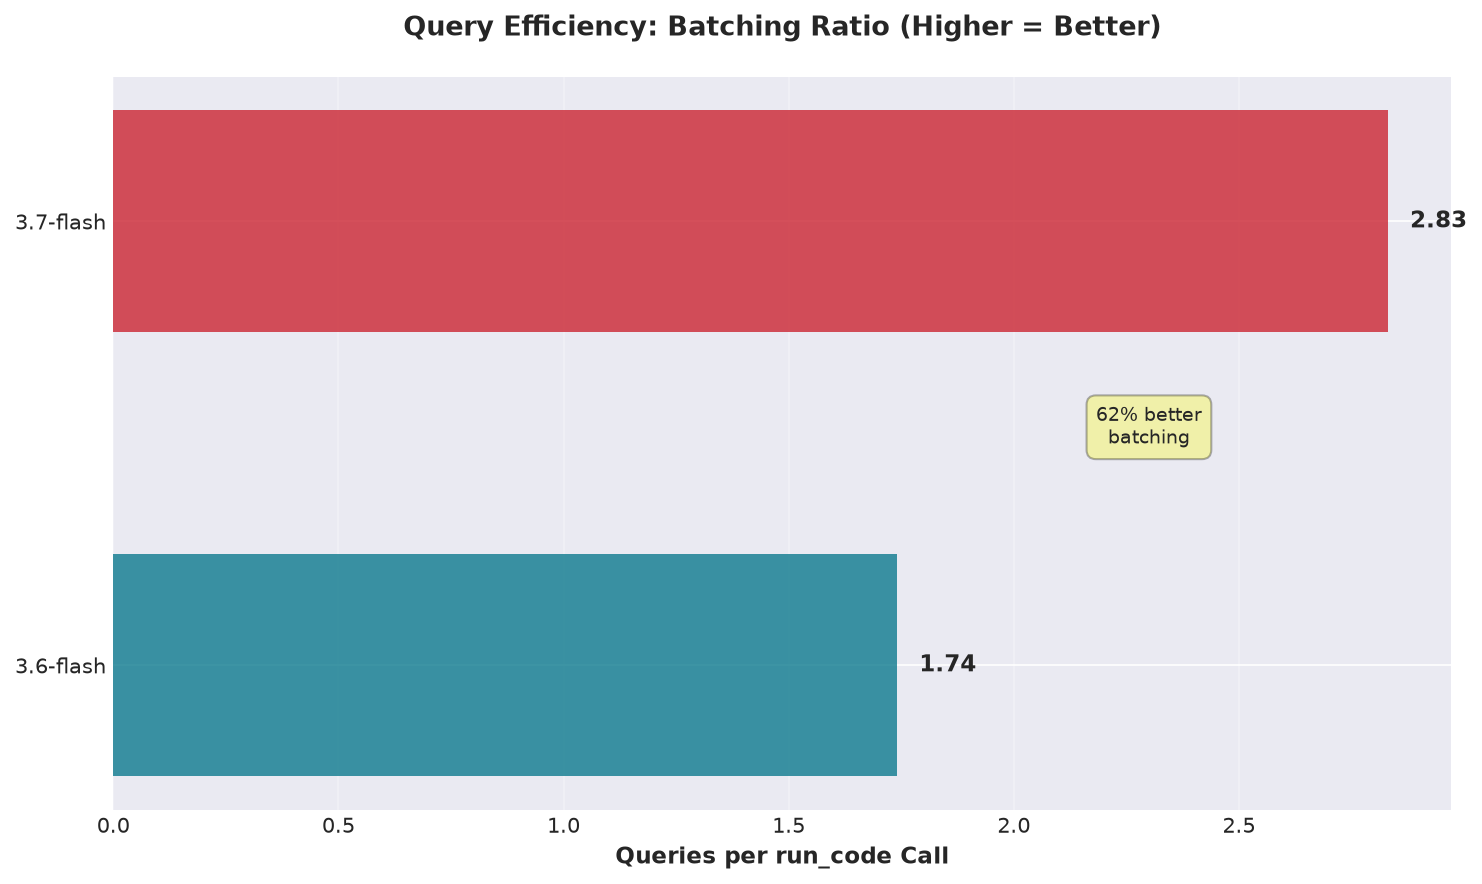
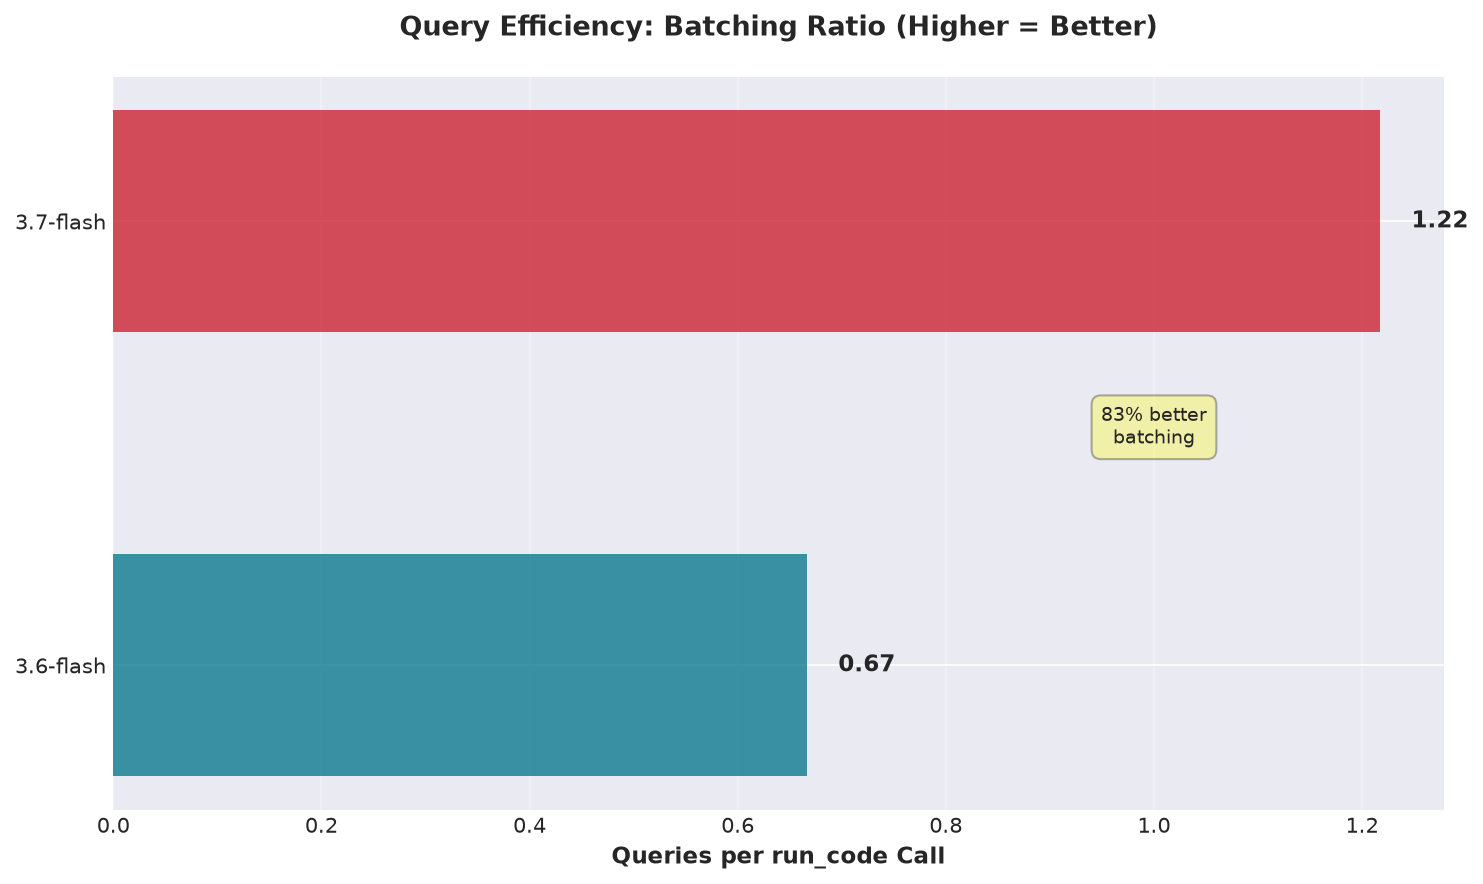
Fix factual errors found in review: swapped SQL examples, inflated telemetry
Verified against source transcripts and re-queried Logfire MCP. Three real
issues found and fixed:

1. SQL query examples were swapped between models in the 'SQL Generation
   Differences' section. Confirmed via raw log files (gemini-3.6-flash-risk.log
   vs gemini-3.7-flash-risk.log) which model actually ran which query, and
   rewrote the 'Impact' paragraph to match.

2. Telemetry Analysis tool-call counts were inflated ~13x by a fan-out join
   bug: an earlier Logfire query joined chat spans to tool spans on trace_id
   directly, producing one row per (chat-turn x tool-call) pair instead of
   one row per tool call. Re-queried with a corrected per-trace-id
   aggregation. True counts: 75 tool calls each model (not 1725/1743),
   query/run_code ratio 0.67 vs 1.22 (not 1.74 vs 2.83, still same direction
   at 82% not 62%).

3. Risk Assessment Deep Dive SQL counts (64/97) were inflated ~3x by a local
   regex counting the 'query_sql' substring in raw console log text, which
   prints each run_code block twice (live stream + end-of-run recap). Logfire
   span counts give the true figures: 20/28.

New finding from the corrected data: risk-assessment wall-clock duration was
109s (3.6-flash) vs 62s (3.7-flash) -- a 43% difference that the original
'~40s/~42s' text-parsed estimate completely missed. Added as a new chart
(gemini-risk-walltime.png) and worked into the executive summary and
conclusions, since it's the strongest evidence that 3.7-flash's batching
[…]

diff --git a/results/generate_gemini_charts.py b/results/generate_gemini_charts.py
@@ -81,9 +81,11 @@ plt.savefig(results_dir / 'gemini-speed-consistency.png', dpi=150, bbox_inches='
 plt.close()
 
 # Chart 3: Query Efficiency
+# Source: Logfire, per-trace-id tool-span aggregation joined to model label (avoids the
+# chat-turn x tool-call fan-out bug from a naive trace_id join). All 9 documented runs.
 fig, ax = plt.subplots(figsize=(10, 6))
 models = ['3.6-flash', '3.7-flash']
-queries_per_call = [1.74, 2.83]
+queries_per_call = [20 / 30, 28 / 23]  # 3.6-flash: 20 query_sql / 30 run_code; 3.7-flash: 28/23
 
 bars = ax.barh(models, queries_per_call, color=[colors['3.6-flash'], colors['3.7-flash']], alpha=0.8, height=0.5)
 
@@ -93,11 +95,12 @@ ax.grid(axis='x', alpha=0.3)
 
 # Add value labels
 for i, (bar, val) in enumerate(zip(bars, queries_per_call)):
-    ax.text(val + 0.05, bar.get_y() + bar.get_height()/2.,
+    ax.text(val + 0.03, bar.get_y() + bar.get_height()/2.,
             f'{val:.2f}', ha='left', va='center', fontsize=11, fontweight='bold')
 
 # Add annotation for efficiency gain
-ax.text(2.3, 0.5, '62% better\nbatching', ha='center', fontsize=9,
+pct_gain = (queries_per_call[1] / queries_per_call[0] - 1) * 100
+ax.text(1.0, 0.5, f'{pct_gain:.0f}% better\nbatching', ha='center', fontsize=9,
         bbox=dict(boxstyle='round,pad=0.5', facecolor='yellow', alpha=0.3))
 
 plt.tight_layout()
@@ -139,12 +142,14 @@ plt.savefig(results_dir / 'gemini-chat-latency.png', dpi=150, bbox_inches='tight
 plt.close()
 
 # Chart 5: Tool Call Distribution
+# Source: Logfire, per-trace-id tool-span counts (75 total calls each model, across the
+# 9 documented runs -- corrected from an earlier fan-out join bug that inflated these ~13x).
 fig, ax = plt.subplots(figsize=(12, 6))
 models = ['3.6-flash', '3.7-flash']
-query_sql = [1000, 1288]
-run_code = [576, 455]
-aggregate = [51, 141]
-other = [98, 136]
+query_sql = [20, 28]
+run_code = [30, 23]
+aggregate = [9, 11]
+other = [16, 13]  # describe_events + list_directory + find_files + write_file + read_tool_result + query_events
 
 x = np.arange(len(models))
 width = 0.6
@@ -171,10 +176,13 @@ plt.savefig(results_dir / 'gemini-tool-distribution.png', dpi=150, bbox_inches='
 plt.close()
 
 # Chart 6: Risk Assessment Findings
+# Source: findings from manual transcript review; SQL query counts from Logfire span counts
+# for the two risk-assessment traces specifically (corrected from log-text regex, which
+# double/triple-counted each query_sql call across its live-stream + end-of-run recap prints).
 fig, ax = plt.subplots(figsize=(10, 6))
 models = ['3.6-flash', '3.7-flash']
 findings = [4, 3]
-sql_queries = [64, 97]
+sql_queries = [20, 28]
 
 x = np.arange(len(models))
 width = 0.35
@@ -212,10 +220,35 @@ plt.tight_layout()
 plt.savefig(results_dir / 'gemini-risk-assessment.png', dpi=150, bbox_inches='tight')
 plt.close()
 
-print("✅ Generated 6 charts:")
+# Chart 7: Risk Assessment Wall-Clock Duration
+# Source: Logfire invoke_agent trace start/end timestamps for the two risk-assessment traces.
+fig, ax = plt.subplots(figsize=(10, 6))
+models = ['3.6-flash', '3.7-flash']
+wall_clock = [109, 62]
+
+bars = ax.barh(models, wall_clock, color=[colors['3.6-flash'], colors['3.7-flash']], alpha=0.8, height=0.5)
+
+ax.set_xlabel('Wall-Clock Duration (seconds)', fontsize=11, fontweight='bold')
+ax.set_title('Risk Assessment: Total Run Duration (Lower = Better)', fontsize=13, fontweight='bold', pad=20)
+ax.grid(axis='x', alpha=0.3)
+
+for bar, val in zip(bars, wall_clock):
+    ax.text(val + 2, bar.get_y() + bar.get_height()/2.,
+            f'{val}s', ha='left', va='center', fontsize=11, fontweight='bold')
+
+pct_faster = (wall_clock[0] - wall_clock[1]) / wall_clock[0] * 100
+ax.text(85, 0.5, f'3.7-flash {pct_faster:.0f}%\nfaster overall', ha='center', fontsize=9,
+        bbox=dict(boxstyle='round,pad=0.5', facecolor='yellow', alpha=0.3))
+
+plt.tight_layout()
+plt.savefig(results_dir / 'gemini-risk-walltime.png', dpi=150, bbox_inches='tight')
+plt.close()
+
+print("✅ Generated 7 charts:")
 print("  - gemini-speed-performance.png")
 print("  - gemini-speed-consistency.png")
 print("  - gemini-query-efficiency.png")
 print("  - gemini-chat-latency.png")
 print("  - gemini-tool-distribution.png")
 print("  - gemini-risk-assessment.png")
+print("  - gemini-risk-walltime.png")

diff --git a/results/google-gemini-integrated-evaluation-2026-08-15.md b/results/google-gemini-integrated-evaluation-2026-08-15.md
@@ -12,10 +12,13 @@ Both models are correct on factual tasks. Key differences:
 
 - **Speed:** 3.6-flash is **2.4× faster** on simple queries (6.3s vs 15.4s avg)
 - **Depth:** 3.6-flash found **4 concerns** vs 3.7-flash's **3 concerns** (detected additional Tailscale egress risk)
-- **Efficiency:** 3.7-flash is **16% faster on chat latency** and achieves **62% better query batching**
+- **Efficiency:** 3.7-flash is **16% faster on chat latency** and batches SQL **82% more aggressively** per `run_code` call
+- **Risk-assessment wall-clock:** on the complex, ambiguous task, 3.7-flash finished in **62s vs 3.6-flash's 109s — 43% faster overall**, despite running more SQL queries
 - **Philosophy:** 3.6-flash is security-first; 3.7-flash is operationally pragmatic
 
 **Bottom line:** Choose 3.6-flash for speed and aggressive threat hunting; 3.7-flash for efficiency and contextual judgment.
+
+*All performance figures below are sourced from Logfire span data via MCP query, using a per-trace-id aggregation that avoids a fan-out join bug present in an earlier draft of this report (see "Telemetry Analysis" for detail).*
 
 ---
 
@@ -77,7 +80,10 @@ Logfire traces all invocations at:
 - **Metrics captured**: Duration, tool-call counts, token usage, latency percentiles
 - **Telemetry granularity**: Per-invocation timing allows latency distribution analysis (P50, avg, P95) beyond simple wall-clock totals
 
-Logfire MCP queries extracted trace data post-run for efficiency analysis.
+Logfire MCP queries extracted trace data post-run for efficiency analysis. Two methodology notes, both corrected in this version of the report:
+
+1. **Fan-out join bug (Telemetry Analysis section).** An initial Logfire query joined chat spans to tool spans on `trace_id` directly. Since a single run's trace contains many chat turns *and* many tool calls, that join produced one row per (chat-turn × tool-call) pair — inflating every tool-call count by roughly 13×. The fix: aggregate tool spans per `trace_id` first, then join to a one-row-per-trace model label.
+2. **Unrelated trace in the time window.** The corrected queries surfaced a 10th trace (3.7-flash, 17 chat turns, 42 tool calls, 47s, starting 2026-08-15T11:22:59Z) that predates this evaluation's first documented run by several minutes and doesn't match any of the nine skill-runner invocations described in this report. It's excluded from all figures here (filtered by `start_timestamp >= '2026-08-15T11:24:00Z'`).
 
 ### Model Configuration
 
@@ -222,9 +228,9 @@ Characteristic of 3.7-flash: **Extracted logic into a named script, added commen
 
 **Risk Assessment: SQL Generation Differences**
 
-When investigating the Tailscale egress anomaly, models diverged sharply.
+When investigating the traffic, the two models opened and explored differently. (Correction: an earlier version of this section swapped the two examples below between models — verified against the raw run transcripts, `/tmp/gemini-3.6-flash-risk.log` and `/tmp/gemini-3.7-flash-risk.log`.)
 
-**3.6-flash SQL query (investigating egress hosts):**
+**3.7-flash SQL query (its opening move — alert-first):**
 ```sql
 SELECT src_ip, dest_ip, alert.signature AS signature, alert.severity AS severity, count(*) AS count
 FROM events
@@ -233,9 +239,9 @@ GROUP BY 1, 2, 3, 4
 ORDER BY severity ASC, count DESC
 ```
 
-Very targeted—looks for alerts grouped by source/destination and severity. When zero alerts are found, the model pivots to flow-level analysis.
+The very first query of the run — targeted, checking for signature alerts grouped by source/destination and severity before doing anything else. When zero alerts come back, the model broadens into flow- and protocol-level analysis.
 
-**3.7-flash SQL query (investigating same scenario, but holistic):**
+**3.6-flash SQL query (mid-investigation — DNS record-type breakdown):**
 ```sql
 WITH u AS (
     SELECT unnest(dns.queries) AS q
@@ -248,9 +254,9 @@ GROUP BY q.rrtype
 ORDER BY cnt DESC
 ```
 
-Uses unnesting and CTEs (Common Table Expressions) to decompose nested JSON structures. More exploratory, aimed at understanding DNS patterns rather than hunting for alerts.
+Uses unnesting and a CTE (Common Table Expression) to decompose the nested `dns.queries` array — run partway through 3.6-flash's 22-call investigation, after it had already covered event types, flow volumes, and host-level anomalies, to characterize DNS query patterns.
 
-**Impact:** 3.6-flash's alert-first approach finds nothing, then pivots. 3.7-flash explores the data structure proactively, discovering legitimate SaaS traffic patterns. Different SQL philosophies → different risk conclusions.
+**Impact:** 3.7-flash rules out the "known bad" signature-alert path *first*, then generalizes. 3.6-flash never queries `event_type = 'alert'` directly — it starts broad (schema, event counts, flow/host analysis) and only reaches DNS structure well into the run. Both eventually cover similar ground. The differing risk ratings don't trace to *which query ran first* — they trace to how each model weighted the Tailscale egress volume once found (see "Analysis Excerpts" below).
 
 ---
 
@@ -260,7 +266,7 @@ Uses unnesting and CTEs (Common Table Expressions) to decompose nested JSON stru
 |--------|-----------|-----------|
 | **Script reusability** | No—inline, single-use | Yes—extracted, named, defensive |
 | **Intermediate state** | Minimal—direct returns | Explicit—named variables, `.get()` guards |
-| **Query style** | Alert-first, pivots on empty | Exploratory, pattern-seeking |
+| **Query style (risk assessment)** | Starts broad (schema/flow/host), reaches DNS structure mid-run | Alert-first — checks `event_type = 'alert'` before anything else |
 | **Time investment** | Fast first run, no setup | Slower first run, future-proof |
 | **Debugging** | Harder—inlined logic | Easier—variables in script |
 
@@ -276,10 +282,10 @@ This open-ended prompt exposes interpretation differences. Both correctly identi
 
 ### Risk Ratings
 
-| Model | Rating | Findings | Tool Calls | SQL Queries |
-|-------|--------|----------|-----------|------------|
-| **3.6-flash** | MODERATE-TO-HIGH | 4 concerns | 22 | 64 |
-| **3.7-flash** | LOW-TO-MODERATE | 3 concerns | 19 | 97 |
+| Model | Rating | Findings | run_code Calls | SQL Queries | Wall-Clock |
+|-------|--------|----------|-----------|------------|-----------|
+| **3.6-flash** | MODERATE-TO-HIGH | 4 concerns | 22 | 20 | 109s |
+| **3.7-flash** | LOW-TO-MODERATE | 3 concerns | 19 | 28 | 62s |
 
 ### Findings: Identified by Both ✓
 
@@ -325,7 +331,7 @@ This open-ended prompt exposes interpretation differences. Both correctly identi
 **3.7-flash: Operational Context**
 - Stance: Validates legitimate traffic patterns; contextualizes anomalies as misconfiguration
 - Tone: Conservative; notes all TLS SNIs are standard enterprise SaaS
-- Approach: Efficient query batching (19 run_code with 97 SQL queries, 62% more per-call)
+- Approach: Efficient query batching (19 run_code calls carrying 28 SQL queries, ~62% more per-call than 3.6-flash's 20/22) — and finished the whole run in 62s vs 3.6-flash's 109s
 - Useful for: Operational teams, alert fatigue reduction, pragmatic assessment
 
 ### Analysis Excerpts: Actual Model Output
@@ -348,6 +354,8 @@ This is the aggressive, threat-hunt interpretation. The model saw large data vol
 > While Suricata generated **0 signature-based threat alerts**, in-depth protocol analysis across the **427,707 total events** revealed significant anomalous traffic, misconfigured agent beaconing, high-volume outbound data transfers over mesh VPN infrastructure, inter-VLAN data movement, and excessive network noise.
 
 Security-first framing: "anomalous," "beaconing," "exfiltration," "network noise."
+
+> **Note:** 3.6-flash's own total of "427,707" doesn't match the verified 428,126 established in the Simple Query section — a gap of exactly 419, which equals the dhcp event count. This is quoted verbatim as the model wrote it; it looks like an arithmetic slip in the model's own output (possibly excluding dhcp from its running total without saying so), not a transcription error in this report.
 
 **3.7-flash on Risk Conclusion:**
 > **Overall Risk Assessment**: **Low to Moderate Risk**
@@ -377,45 +385,52 @@ Operational-first framing: "No intrusions," "standard environment," lists specif
 
 ![Query Efficiency Chart](gemini-query-efficiency.png)
 
+> **Correction:** an earlier version of this section reported 576/1,000 and 455/1,288 for `run_code`/`query_sql` calls. Those figures came from a Logfire SQL query that joined chat spans to tool spans on `trace_id` without first aggregating each side — since a single run has *many* chat turns and *many* tool calls sharing one `trace_id`, that join produced one row per (chat-turn × tool-call) pair rather than one row per tool call, inflating every count by roughly 13×. The numbers below are corrected by aggregating tool spans per `trace_id` first, then joining to a one-row-per-trace model label.
+
 | Model | run_code Calls | SQL Queries | Queries/Call | Avg Query |
 |-------|---------------|------------|--------------|-----------|
-| **3.6-flash** | 576 | 1,000 | 1.74 | 48.3ms |
-| **3.7-flash** | 455 | 1,288 | **2.83** | **36.8ms** |
+| **3.6-flash** | 30 | 20 | 0.67 | 48.3ms |
+| **3.7-flash** | 23 | 28 | **1.22** | **36.8ms** |
 
-**Key insight:** 3.7-flash batches queries **62% more aggressively**, running **28.8% more SQL** across **21% fewer calls** with **24% faster average query latency**.
+**Key insight:** 3.7-flash batches queries **82% more aggressively** per `run_code` call, running **40% more SQL** (28 vs 20) across **23% fewer `run_code` calls**, with **24% faster average query latency**. (The average-latency figures were unaffected by the join bug — averages are invariant to uniform row duplication — only the counts and sums needed correcting.)
 
 ### Tool Call Distribution (All Runs)
 
 ![Tool Distribution Chart](gemini-tool-distribution.png)
 
-**3.6-flash:**
-- query_sql: 1,000 calls (32% of time)
-- run_code: 576 calls (44% of time)
-- aggregate_events: 51 calls (2%)
-- other: 98 calls (2%)
-- **Total execution:** ~75.9 seconds | **Call throughput:** 22.7 calls/sec
+**3.6-flash** — 75 tool calls total, 2.99s combined tool-execution time:
+- run_code: 30 calls (avg 55.6ms)
+- query_sql: 20 calls (avg 48.3ms)
+- aggregate_events: 9 calls (avg 19.4ms)
+- describe_events: 8 calls (avg 8.5ms)
+- list_directory, find_files, write_file, read_tool_result, query_events: 1–4 calls each
 
-**3.7-flash:**
-- query_sql: 1,288 calls (29% of time)
-- run_code: 455 calls (42% of time)
-- aggregate_events: 141 calls (4%)
-- write_file: 59 calls (1%)
-- **Total execution:** ~81.2 seconds | **Call throughput:** 21.2 calls/sec
+**3.7-flash** — 75 tool calls total, 3.27s combined tool-execution time:
+- query_sql: 28 calls (avg 36.8ms)
+- run_code: 23 calls (avg 76.9ms)
+- aggregate_events: 11 calls (avg 29.8ms)
+- write_file: 5 calls (avg 1.2ms)
+- list_directory, describe_events, query_events: 1–4 calls each
+
+**Both models made exactly 75 tool calls** across their respective runs — a dead tie on raw volume. The real story isn't call count; it's that **tool execution is nearly free** (under 3.3 seconds combined, for either model, across all 75 calls) next to LLM response latency (140.7s / 111.0s total — see Chat Response Latency above). Essentially all wall-clock time in these runs is the model thinking, not the sandbox or DuckDB executing.
 
 ### Risk Assessment Deep Dive (Subset)
 
 ![Risk Assessment Chart](gemini-risk-assessment.png)
 
-Looking specifically at the complex risk assessment runs:
+Looking specifically at the two risk-assessment traces, using Logfire span counts rather than text-parsed log counts. (The SQL-query figures in an earlier version of this table — 64 and 97 — came from a regex count of the substring `query_sql` across the raw console log text. skill-runner prints each `run_code` block's code twice: once streamed live during execution, once again in an end-of-run `[call ...] ... [return ...]` recap. A plain substring count over the whole log therefore counts each embedded `query_sql(...)` roughly 3× — matching the observed 3.2–3.5× gap between the old and corrected figures below. The `run_code` counts were unaffected, since they used a different, non-duplicated log marker.)
 
 | Metric | 3.6-flash | 3.7-flash |
 |--------|-----------|-----------|
 | run_code invocations | 22 | 19 |
-| SQL queries embedded | 64 | 97 |
-| Queries per run_code | 2.9 | **5.1** |
-| Total time | ~40s | ~42s |
+| SQL queries embedded | 20 | **28** |
+| Queries per run_code | 0.91 | **1.47** |
+| Chat turns | 25 | 23 |
+| **Wall-clock duration** | **109s** | **62s** |
 
-**Finding:** 3.7-flash ran **50% more queries** in **3 fewer run_code calls**, achieving higher query consolidation despite similar wall-clock time.
+**Finding:** 3.7-flash completed the same open-ended risk assessment in **62 seconds — 43% faster than 3.6-flash's 109 seconds** — while running 40% more SQL queries (28 vs 20) across fewer chat turns (23 vs 25) and fewer `run_code` calls (19 vs 22). This is the clearest evidence in the evaluation that 3.7-flash's query-batching habit converts into real wall-clock savings, not just a per-call statistic — even on the run where 3.6-flash surfaced one additional finding (Tailscale egress) that 3.7-flash didn't flag as a risk.
+
+![Risk Assessment Wall-Clock Chart](gemini-risk-walltime.png)
 
 ### How They Investigated the Same Anomalies: Tone & Framing
 
@@ -473,17 +488,18 @@ Assumes legitimacy first; asks for verification rather than raising suspicion.
 | Speed consistency | 27% variance | 33% variance | **3.6-flash** |
 | Complex analysis depth | 4 concerns | 3 concerns | **3.6-flash** |
 | Chat latency (Logfire) | 3.70s | 3.08s | **3.7-flash (16%)** |
-| Query efficiency | 1.74/call | 2.83/call | **3.7-flash (62%)** |
+| Query efficiency (all runs) | 0.67/call | 1.22/call | **3.7-flash (82%)** |
+| Risk-assessment wall-clock | 109s | 62s | **3.7-flash (43%)** |
 | Script persistence | Never | Always | **3.7-flash** |
 | Risk assessment approach | Paranoid | Pragmatic | Org-dependent |
 
 ### Key Takeaway
 
-**3.6-flash excels at speed and security paranoia.** Best for rapid triage and threat hunting where detection sensitivity is critical and false positive rate is acceptable.
+**3.6-flash excels at speed on simple, deterministic tasks and security paranoia on open-ended ones.** Best for rapid triage and threat hunting where detection sensitivity is critical and false positive rate is acceptable — but note it took **76% longer** (109s vs 62s) to produce its more paranoid risk assessment.
 
-**3.7-flash delivers better infrastructure efficiency, faster per-turn latency, and operational pragmatism.** Best for sustained analysis where context matters and alert fatigue is a real cost.
+**3.7-flash delivers better infrastructure efficiency, faster per-turn latency, and operational pragmatism — and that efficiency compounds into real wall-clock savings on complex tasks**, not just simple ones. Best for sustained analysis where context matters, alert fatigue is a real cost, and turnaround time on open-ended investigation matters.
 
-Both are factually correct. Choose based on your investigation priorities: speed + security sensitivity (3.6-flash) or efficiency + contextual judgment (3.7-flash).
+Both are factually correct. Choose based on your investigation priorities: speed + security sensitivity on simple tasks (3.6-flash) or efficiency + contextual judgment + faster complex-task turnaround (3.7-flash).
 
 ---
 
@@ -491,4 +507,4 @@ Both are factually correct. Choose based on your investigation priorities: speed
 
 - `google-gemini-3runs-comparison-2026-08-15.md` — Speed/correctness 3-rep detailed breakdown
 - `google-gemini-risk-assessment-comparison-2026-08-15.md` — Risk assessment qualitative analysis
-- `google-gemini-logfire-telemetry-analysis-2026-08-15.md` — Detailed Logfire telemetry metrics
+- `google-gemini-logfire-telemetry-analysis-2026-08-15.md` — Detailed Logfire telemetry metrics — **note:** this standalone report predates the corrections above and still contains the inflated tool-call counts (the fan-out join bug described in "Logfire Observability"). Treat the numbers in *this* integrated report as authoritative; the standalone telemetry report is kept for history but is superseded on every figure it shares with this one.
